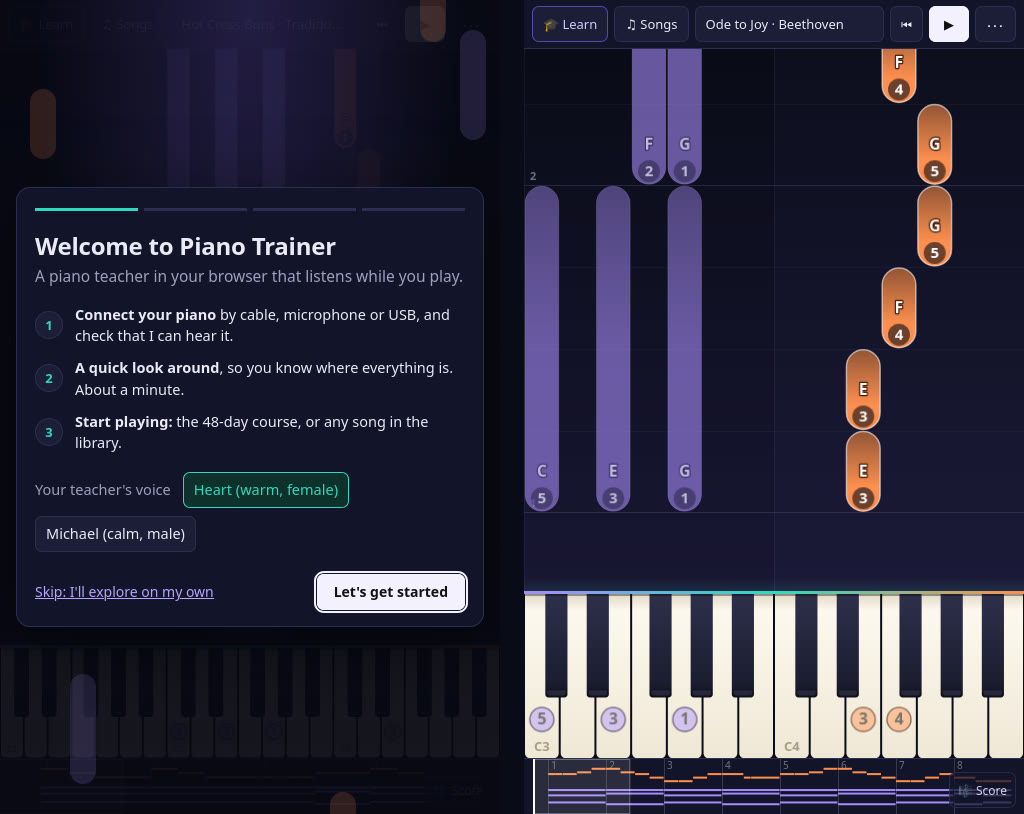
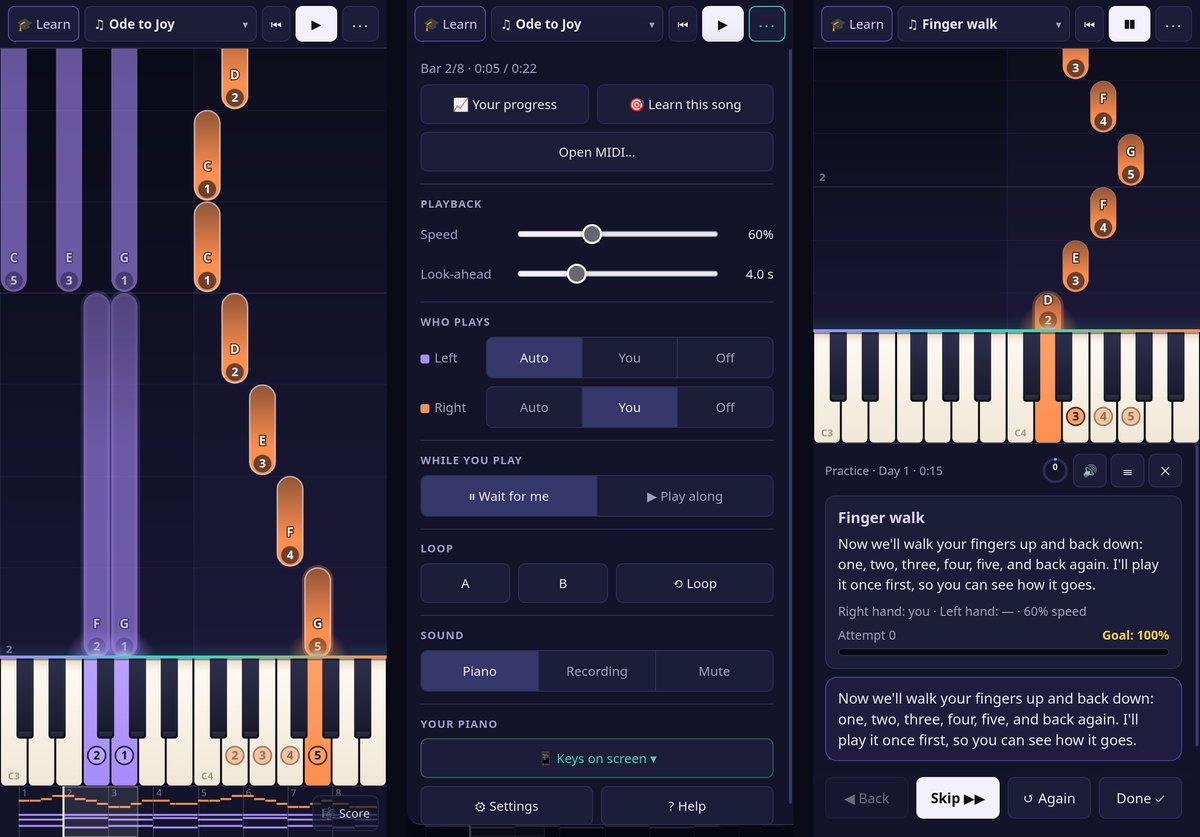
Piano Trainer: the polished phone layout
A new phone picture (the keys on the screen, the ⋯ panel, a lesson) and the text to match:
the song's name in the toolbar, Next within reach, sliding across the keys, home-screen app.

diff --git a/src/content/projects/piano-trainer/index.md b/src/content/projects/piano-trainer/index.md
@@ -33,9 +33,9 @@ No piano to hand? The computer keyboard works too. The home row becomes two hand
 
 ![Ode to Joy with the computer keyboard: a keycap on each piano key it plays, A S D F V for the left hand and N J K L ; for the right](./keyboard.jpg)
 
-It works on a phone or a tablet too. On a small screen the controls fold into one row and a ⋯ panel, the teacher's panel moves under the notes (or beside them, with the phone on its side), and the keyboard narrows to the hand you're playing so the keys are big enough to tap. The keys on the screen can be the piano, chords included, or the phone's own microphone can listen from the piano's music stand.
+It works on a phone or a tablet too. On a small screen the toolbar is one row with the song's name, and the rest of the controls sit in a ⋯ panel, grouped and sized for a finger. The teacher's panel moves under the notes (or beside them, with the phone on its side) and keeps Next within reach of your thumb, and the keyboard narrows to the hand you're playing so the keys are big enough to tap. The keys on the screen can be the piano, with chords and a finger sliding across the keys, or the phone's own microphone can listen from the piano's music stand. Added to the home screen, it opens full screen like an app, and the screen stays on while you play.
 
-![Piano Trainer on a phone: the welcome tour, and Ode to Joy with the right hand's keys big enough to tap](./phone.jpg)
+![Piano Trainer on a phone: Ode to Joy with the right hand's keys big enough to tap, the ⋯ panel with speed, hands, loop and sound, and a lesson with the teacher under the notes](./phone.jpg)
 
 ## A teacher that listens
 
